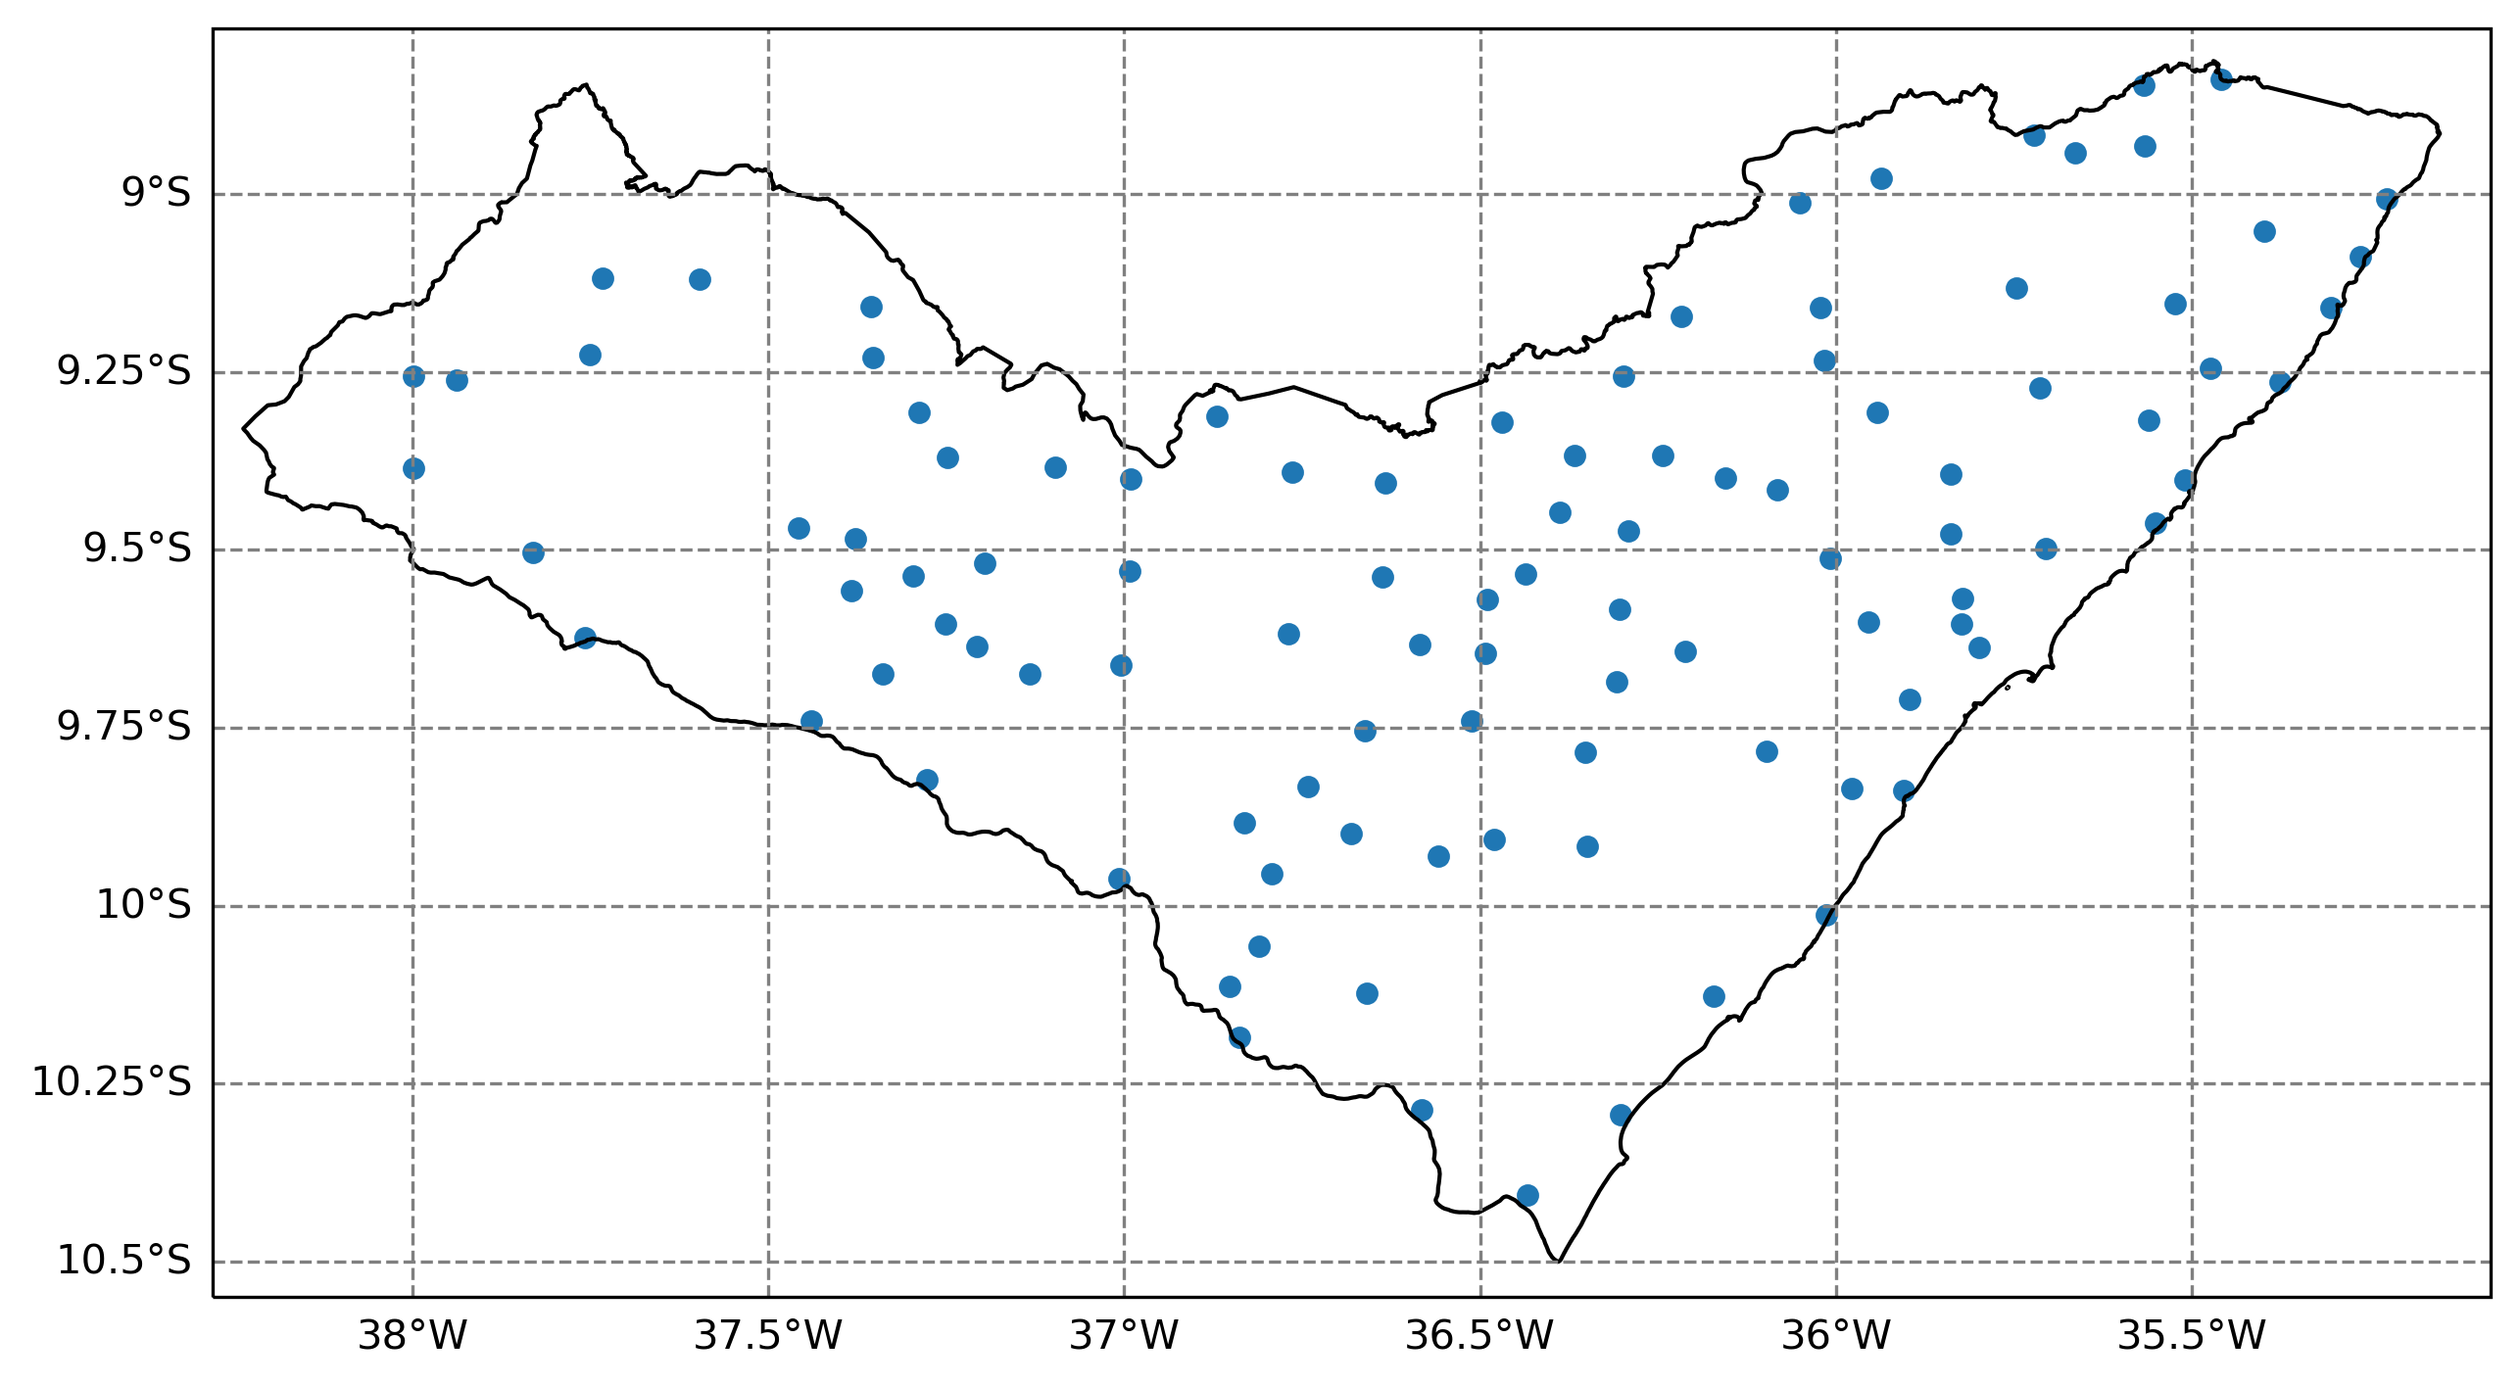
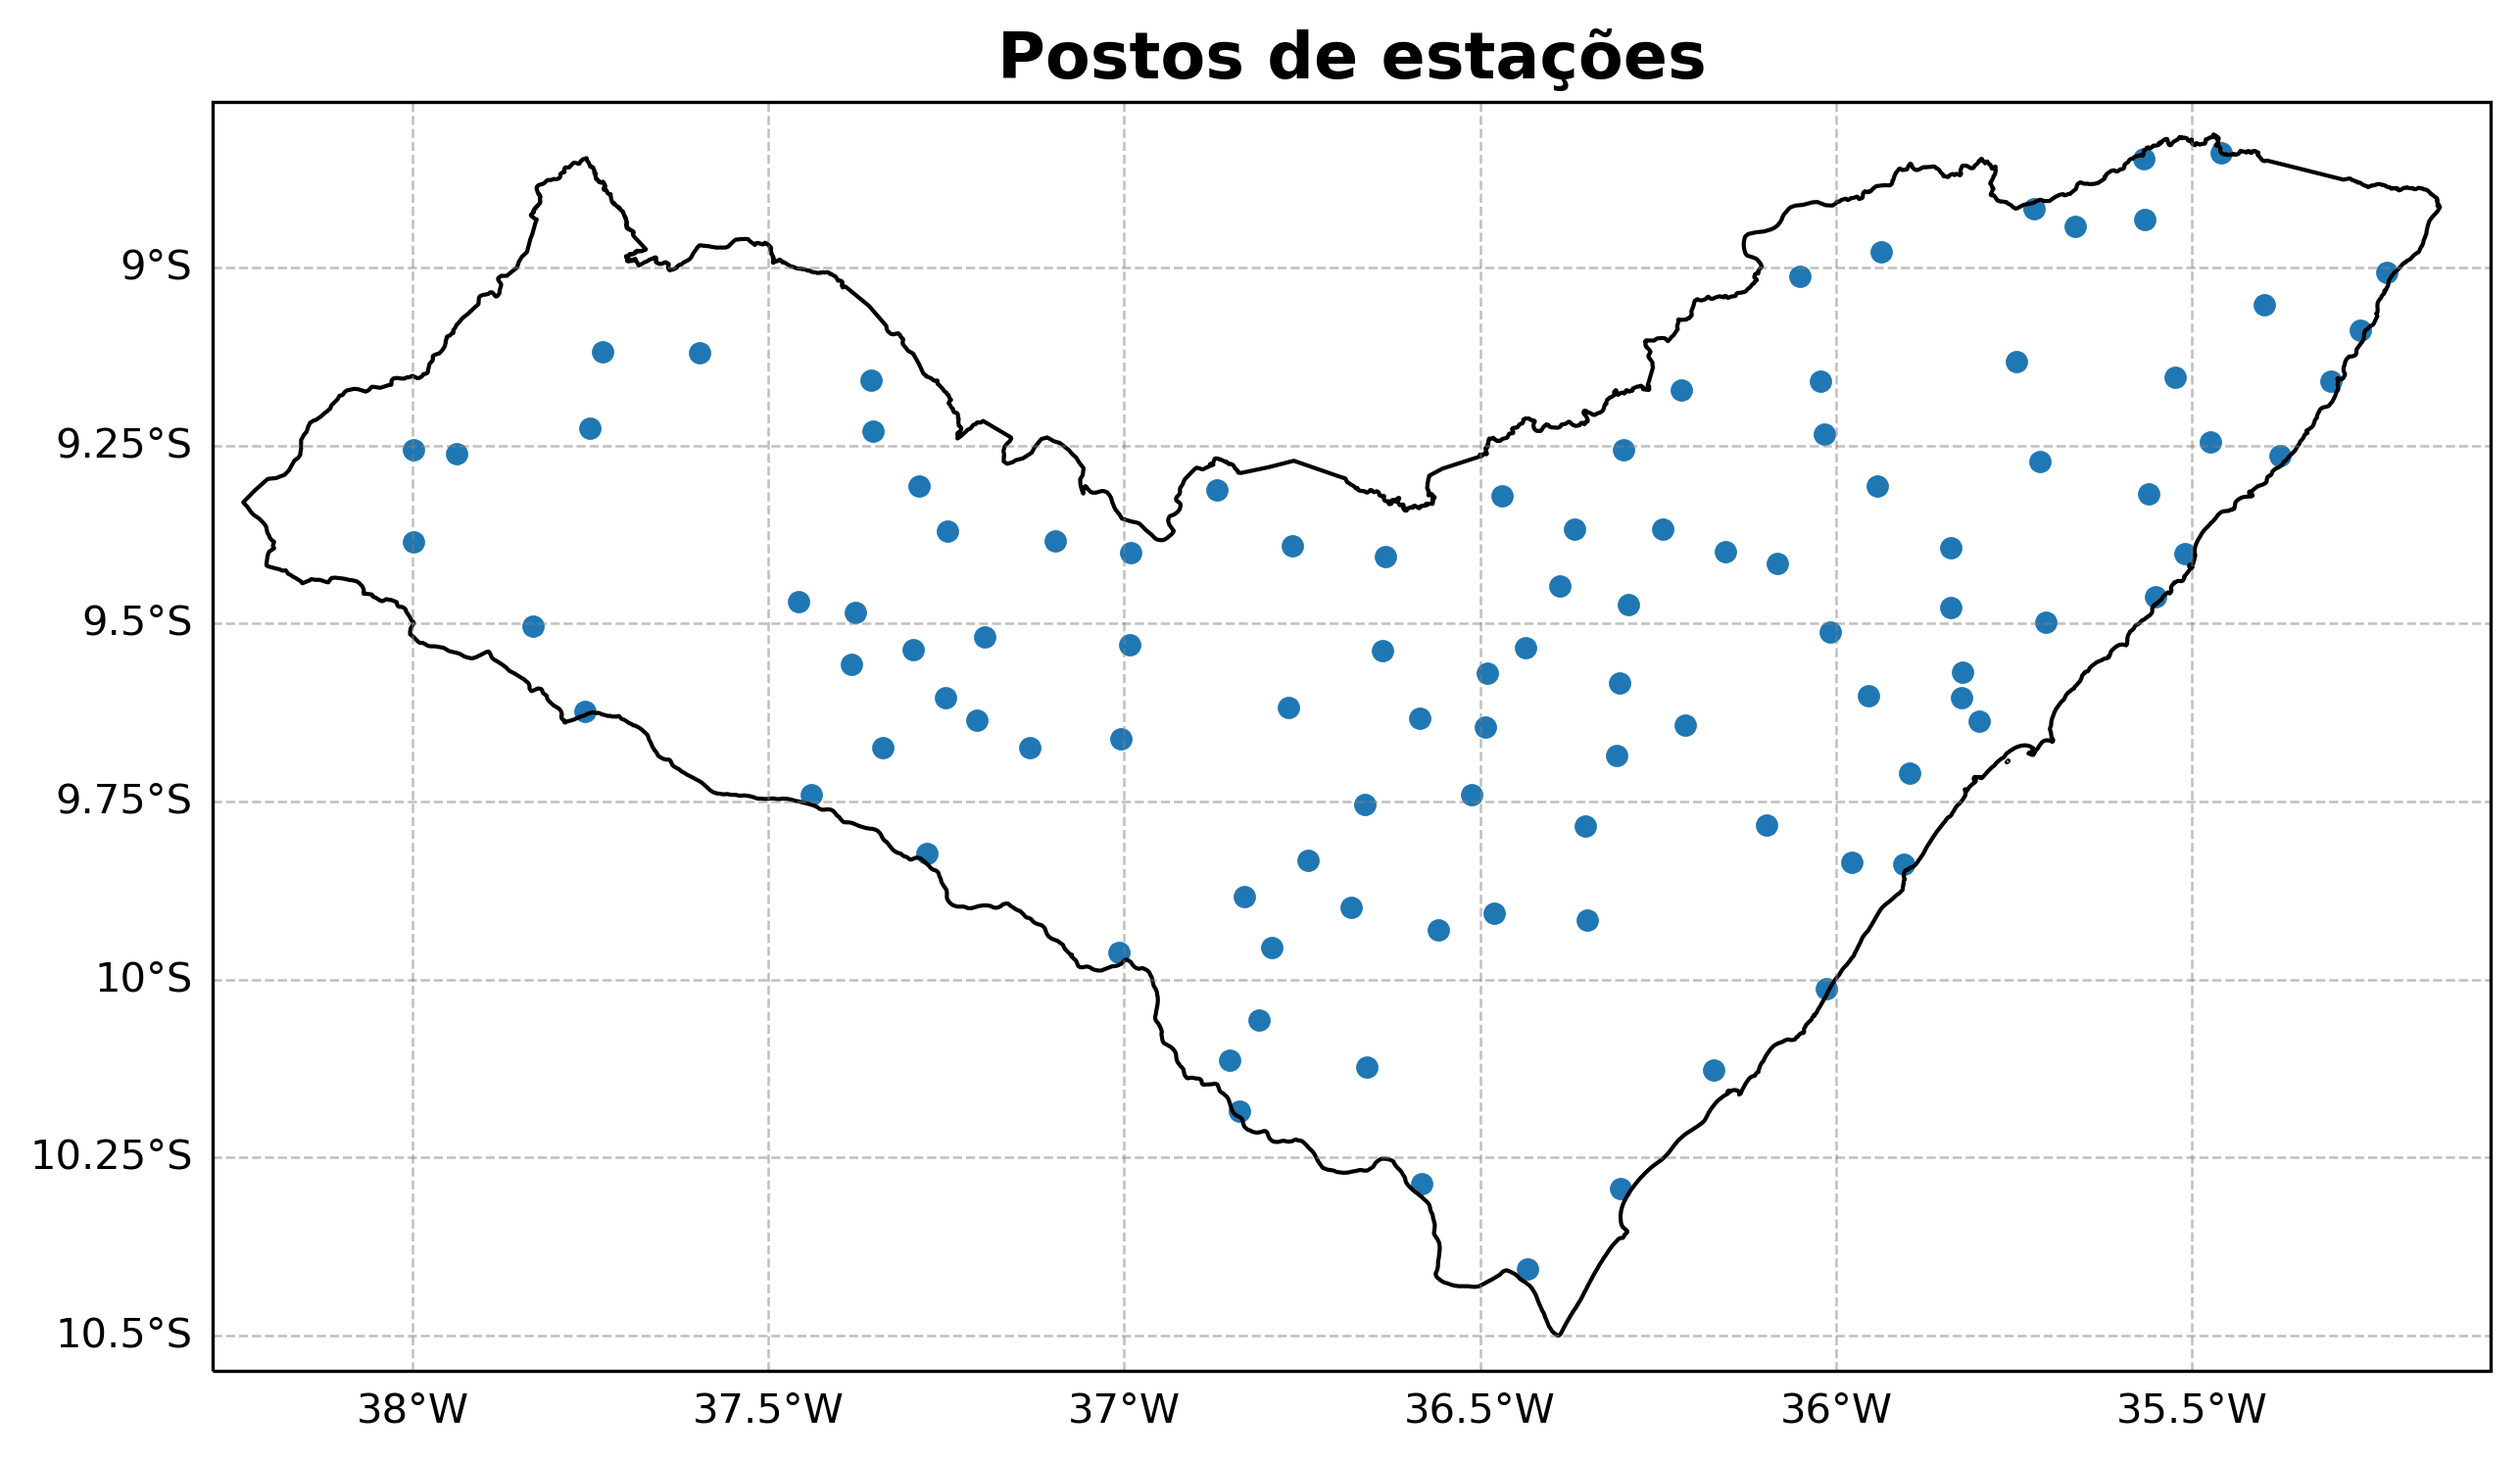
att

diff --git a/README.md b/README.md
@@ -1,2 +1,54 @@
 # pontos_estacoes
-Script que plota os pontos de estacções de Alagoas
+
+```python
+import matplotlib.pyplot as plt
+import pandas as pd
+import numpy as np
+import cartopy.crs as ccrs
+import cartopy.feature as cfeature
+import cartopy.io.shapereader as shpreader
+from cartopy.feature import ShapelyFeature
+from cartopy.mpl.ticker import LongitudeFormatter, LatitudeFormatter
+```
+
+
+```python
+fig = plt.figure(figsize=(10, 8))
+ax = plt.axes(projection=ccrs.PlateCarree())
+ax.set_extent([-38.28, -35.08, -10.55, -8.768], ccrs.PlateCarree())
+#ax.add_feature(cfeature.BORDERS)
+#ax.add_feature(cfeature.COASTLINE)
+#ax.add_feature(cfeature.STATES)
+#ax.add_feature(cfeature.OCEAN)
+#ax.add_feature(cfeature.LAKES, alpha=1.0)
+#ax.add_feature(cfeature.LAND)
+
+#Ler shp
+shape_feature = ShapelyFeature(shpreader.Reader('AL_UF_2021/AL_UF_2021.shp').geometries(),\
+ ccrs.PlateCarree(), facecolor='none', edgecolor='k', linewidth=1.0)
+ax.add_feature(shape_feature)
+
+#Ler dados
+df = pd.read_csv('AL_fab.csv', encoding='utf-8', sep=';', decimal=',')
+
+#Plotar lat e lon
+cs = ax.scatter(df['LONGITUDE'].values, df['LATITUDE'].values,\
+                 transform=ccrs.PlateCarree(), marker='o', s=20)
+
+#Linhas da grade e Coordenadas geográficas
+gd = ax.gridlines(crs=ccrs.PlateCarree(), linestyle='--', color='gray', draw_labels=True, alpha=0.5, linewidth=0.6)
+gd.right_labels = False
+gd.top_labels = False
+
+#colcoar o titulo
+plt.title('Postos de estações', fontsize=16, fontweight='bold')
+
+plt.savefig('Postos de estações.png', dpi=300, bbox_inches='tight')
+plt.show()
+```
+
+
+    
+![png](Plotar_pontos_de_esta%C3%A7%C3%B5es_files/Plotar_pontos_de_esta%C3%A7%C3%B5es_1_0.png)
+    
+
